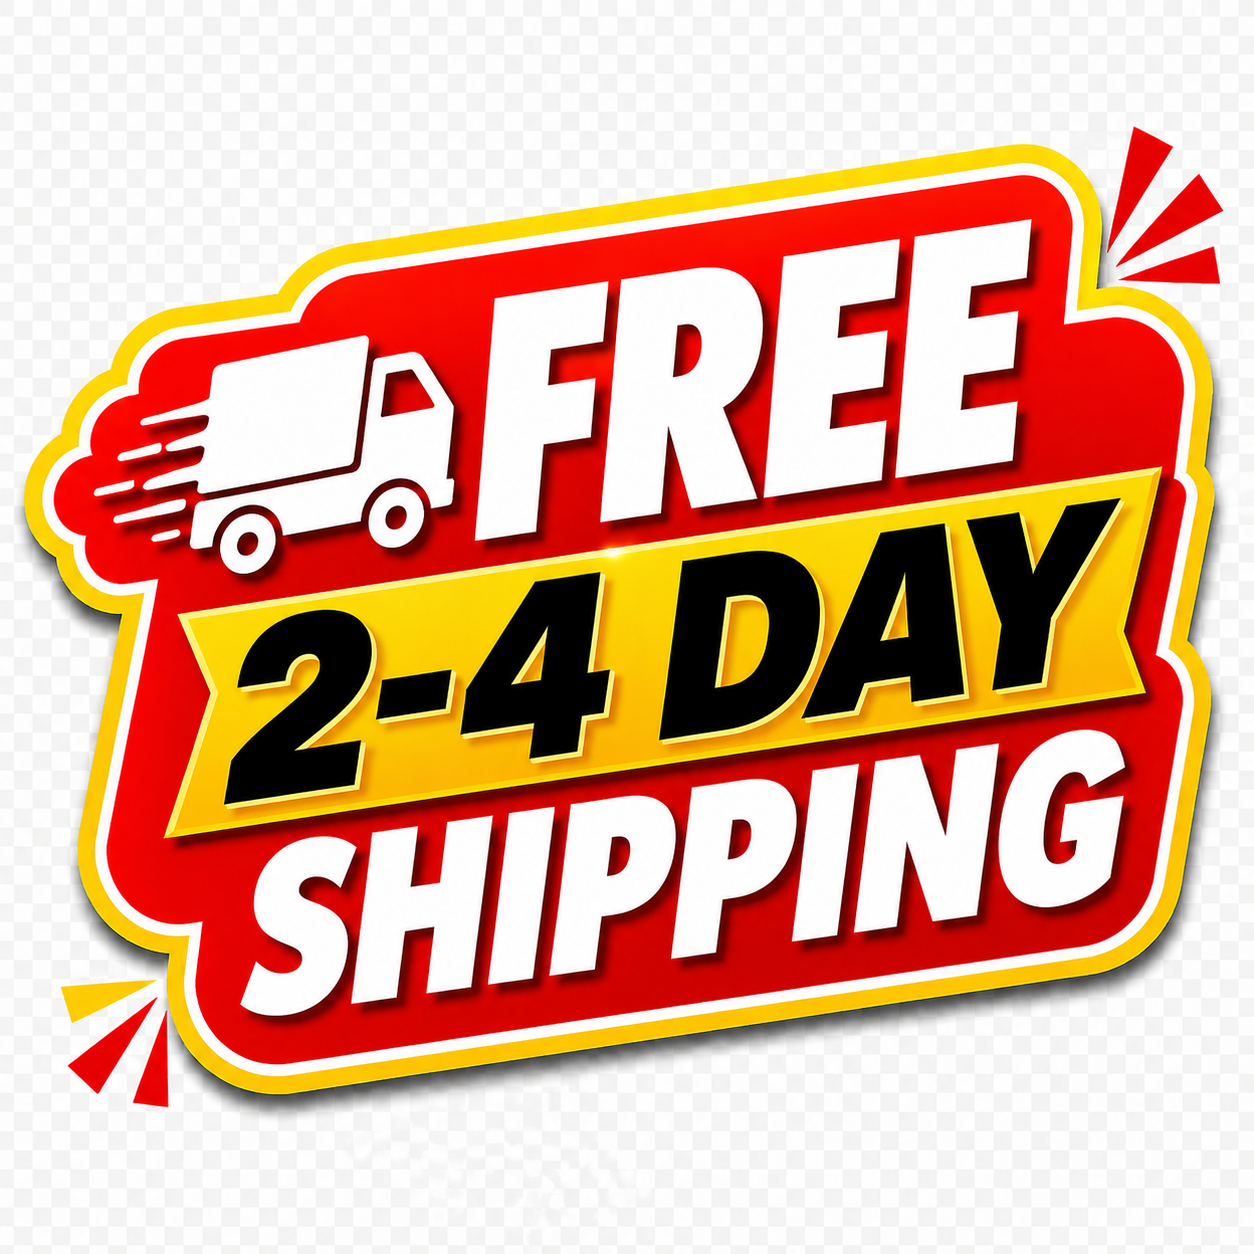
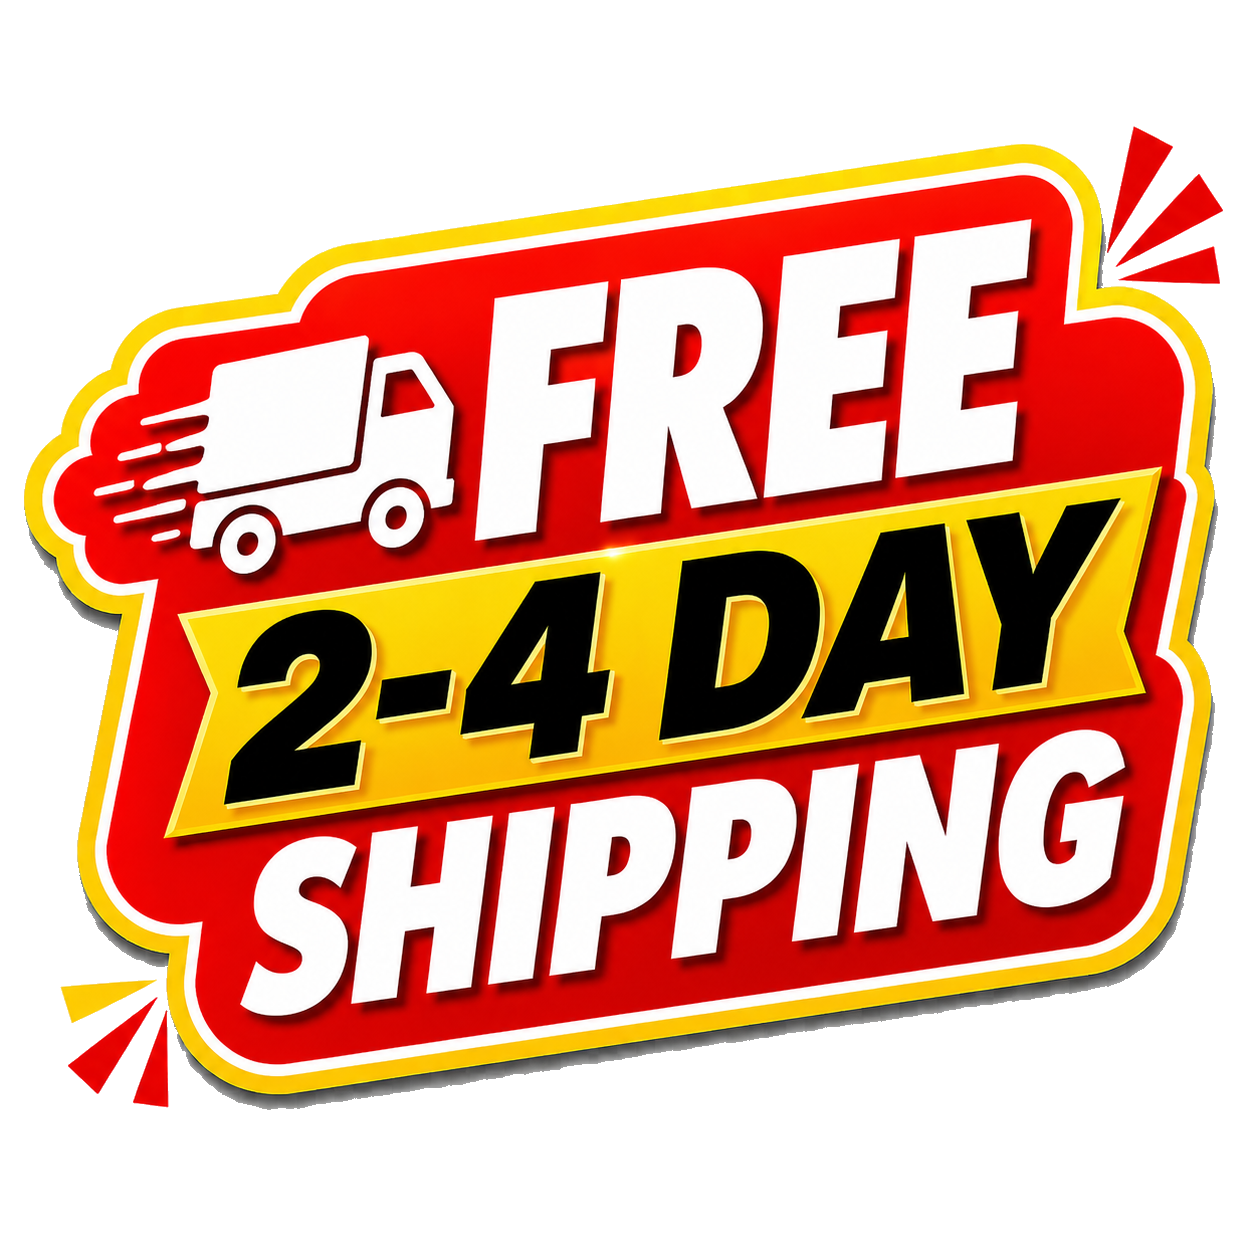
Polish listing badge and descriptions

diff --git a/app/api/ebay/list-product/route.ts b/app/api/ebay/list-product/route.ts
@@ -922,28 +922,45 @@ function buildDescription(title: string, features: string[], about: string, imag
 
   const uniqueImages = dedupeImageUrls(images)
   const relevantSpecs = pickRelevantSpecs(specs)
+  const inferredBrand = inferBrandFromProduct(displayTitle, relevantSpecs)
+  const productType = inferTypeFromProduct(displayTitle, null, relevantSpecs)
   const normalizedFeatures = buildOriginalFeatureBullets(displayTitle, relevantSpecs, null)
+  const sourceFeatureBullets = features
+    .map((value) => sanitizeContent(value))
+    .filter((value) => value.length > 12 && !isGenericFeature(value))
+    .slice(0, 8)
   const specBullets = relevantSpecs
     .filter(([key]) => !/brand/i.test(key))
-    .slice(0, 6)
+    .slice(0, 8)
     .map(([key, value]) => `${titleCaseLabel(key)}: ${value}`)
-  const finalBullets = Array.from(new Set([...normalizedFeatures, ...specBullets])).slice(0, 10)
-  const descriptionParagraphs: string[] = []
-  const detailParagraphs = descriptionParagraphs.slice(0, 2)
-  const inferredBrand = inferBrandFromProduct(displayTitle, relevantSpecs)
+  const finalBullets = Array.from(new Set([...sourceFeatureBullets, ...normalizedFeatures, ...specBullets])).slice(0, 12)
   const topSpecsSentence = relevantSpecs
-    .slice(0, 3)
+    .filter(([key]) => !/brand/i.test(key))
+    .slice(0, 4)
     .map(([key, value]) => `${titleCaseLabel(key)} ${value}`)
     .join(', ')
   const featureSummary = finalBullets
-    .slice(0, 3)
+    .slice(0, 4)
     .map((value) => value.replace(/: /g, ' '))
     .join(', ')
+  const sourceParagraphs = toParagraphs(about)
+    .filter((paragraph) => !isGenericFeature(paragraph))
+    .slice(0, 3)
+  const generatedOverview = `${displayTitle}${inferredBrand ? ` by ${inferredBrand}` : ''} is a new ${productType.toLowerCase()} selected for buyers who want dependable everyday use, clear product details, and fast tracked delivery.`
+  const generatedDetails = topSpecsSentence
+    ? `Important product details include ${topSpecsSentence}. ${featureSummary ? `Key highlights include ${featureSummary}.` : 'Review the photos and item specifics for the exact style, fit, and included components.'}`
+    : featureSummary
+      ? `Key highlights include ${featureSummary}. Review the photos and item specifics for the exact style, fit, and included components.`
+      : 'Review the photos, item specifics, and feature summary below for the exact style, fit, and included components.'
+  const descriptionParagraphs = sourceParagraphs.length > 0
+    ? Array.from(new Set([...sourceParagraphs.slice(0, 2), generatedDetails])).slice(0, 3)
+    : [generatedOverview, generatedDetails]
+  const detailParagraphs = Array.from(new Set([...sourceParagraphs.slice(2), generatedDetails])).slice(0, 2)
   const overviewBlock = descriptionParagraphs.length > 0
     ? descriptionParagraphs
       .map((paragraph) => `<p style="font-size:14px;line-height:1.8;padding:0 14px 12px;margin:0;color:#333;overflow-wrap:anywhere;">${paragraph}</p>`)
       .join('\n')
-    : `<p style="font-size:14px;line-height:1.8;padding:0 14px 12px;margin:0;color:#333;overflow-wrap:anywhere;">${displayTitle}${inferredBrand ? ` from ${inferredBrand}` : ''} is designed for dependable everyday use. ${featureSummary ? `Key highlights include ${featureSummary}.` : topSpecsSentence ? `Important details include ${topSpecsSentence}.` : 'Review the feature summary and specifications below for the most important product details.'}</p>`
+    : `<p style="font-size:14px;line-height:1.8;padding:0 14px 12px;margin:0;color:#333;overflow-wrap:anywhere;">${generatedOverview}</p>`
 
   const heroImages = uniqueImages.slice(0, 2)
   const detailImages = uniqueImages.slice(2, 4)
@@ -1000,9 +1017,9 @@ ${detailImages.map(u => `      <img src="${u}" alt="" style="width:210px;max-wid
   <!-- Shipping -->
   ${sectionHeader('Shipping')}
   <ul style="font-size:14px;line-height:1.9;padding:12px 14px 12px 30px;margin:0;color:#333;">
-    <li><strong>Free & Fast Shipping:</strong> Free USPS Priority Mail on every order. Estimated 2&ndash;4 business days.</li>
+    <li><strong>Free 2&ndash;4 Day Shipping:</strong> Every order includes free expedited tracked shipping.</li>
     <li><strong>Handling:</strong> Ships same day or next business day after cleared payment.</li>
-    <li><strong>Tracking:</strong> Tracking number emailed as soon as your order ships.</li>
+    <li><strong>Tracking:</strong> Tracking is uploaded to eBay as soon as your order ships.</li>
   </ul>
 
   <!-- Return Policy -->

diff --git a/app/api/image/badge/route.ts b/app/api/image/badge/route.ts
@@ -7,6 +7,21 @@ export const dynamic = 'force-dynamic'
 
 const STAMP_PATH = path.join(process.cwd(), 'public', 'free-shipping-stamp.png')
 
+async function prepareStampOverlay(stampBuffer: Buffer, width: number) {
+  const input = await sharp(stampBuffer)
+    .ensureAlpha()
+    .trim({ threshold: 18 })
+    .resize({ width })
+    .png()
+    .toBuffer()
+  const metadata = await sharp(input).metadata()
+  return {
+    input,
+    width: metadata.width || width,
+    height: metadata.height || width,
+  }
+}
+
 async function buildFallbackImage(title: string, asin: string) {
   const stampBuffer = await fs.readFile(STAMP_PATH)
   const width = 1400
@@ -34,15 +49,15 @@ async function buildFallbackImage(title: string, asin: string) {
       <rect x="410" y="965" width="140" height="20" rx="10" fill="#d7c18a" />
     </svg>
   `
-  const stampWidth = 300
-  const stamp = await sharp(stampBuffer).resize({ width: stampWidth }).png().toBuffer()
+  const stampWidth = 440
+  const stamp = await prepareStampOverlay(stampBuffer, stampWidth)
 
   return sharp(Buffer.from(svg))
     .composite([
       {
-        input: stamp,
-        top: height - stampWidth - 46,
-        left: width - stampWidth - 34,
+        input: stamp.input,
+        top: height - stamp.height - 42,
+        left: width - stamp.width - 32,
       },
     ])
     .jpeg({ quality: 92 })
@@ -95,18 +110,17 @@ export async function GET(req: NextRequest) {
     const width = metadata.width || 1200
     const height = metadata.height || 1200
 
-    const stampWidth = Math.max(190, Math.min(320, Math.round(width * 0.24)))
-    const stamp = await sharp(stampBuffer)
-      .resize({ width: stampWidth })
-      .png()
-      .toBuffer()
+    const stampWidth = Math.max(260, Math.min(460, Math.round(width * 0.32)))
+    const stamp = await prepareStampOverlay(stampBuffer, stampWidth)
+    const insetX = Math.max(14, Math.round(width * 0.03))
+    const insetY = Math.max(14, Math.round(height * 0.03))
 
     const output = await source
       .composite([
         {
-          input: stamp,
-          top: Math.max(14, height - stampWidth - Math.max(16, Math.round(height * 0.04))),
-          left: Math.max(14, width - stampWidth - Math.max(16, Math.round(width * 0.04))),
+          input: stamp.input,
+          top: Math.max(14, height - stamp.height - insetY),
+          left: Math.max(14, width - stamp.width - insetX),
         },
       ])
       .jpeg({ quality: 92 })

diff --git a/COLLAB.md b/COLLAB.md
@@ -18,6 +18,7 @@ _Clear this section when done._
 
 | Date | Agent | What Was Done | Key Files |
 |------|-------|---------------|-----------|
+| 2026-04-30 | Codex | Fixed listing polish: regenerated transparent free-shipping PNG, made listing badge larger/trimmed, and restored detailed eBay descriptions from source description, feature bullets, and specs | `public/free-shipping-stamp.png`, `app/api/image/badge/route.ts`, `app/api/ebay/list-product/route.ts` |
 | 2026-04-30 | Codex | Fixed stale product-cache pricing so Product Finder/Continuous Listing reprices cached rows on read/save, source-engine rows recalculate on read, and cache version bumped to flush old ROI values | `app/api/scripts/product-finder/route.ts`, `app/api/cron/refresh-products/route.ts`, `lib/product-source-engine.ts` |
 | 2026-04-30 | Codex | Rebuilt pricing into a shared dynamic engine with cost-band ROI targets, eBay fee/fixed-fee/buffer math, psychological endings, competitor-aware publish pricing, and unified dashboard/source/cron/finder calculations | `lib/listing-pricing.ts`, `app/api/ebay/list-product/route.ts`, `app/api/cron/refresh-products/route.ts`, `app/api/scripts/product-finder/route.ts`, `lib/product-source-engine.ts`, `app/dashboard/utils.ts`, `app/dashboard/constants.ts` |
 | 2026-04-30 | Codex | Added shared listing policy guard for Product Finder, Continuous Listing, source-engine intake, and final eBay publish; added deep catalog refresh mode for larger product-source warmups | `lib/listing-policy.ts`, `app/api/scripts/product-finder/route.ts`, `app/api/cron/refresh-products/route.ts`, `lib/product-source-engine.ts`, `app/api/ebay/list-product/route.ts` |
